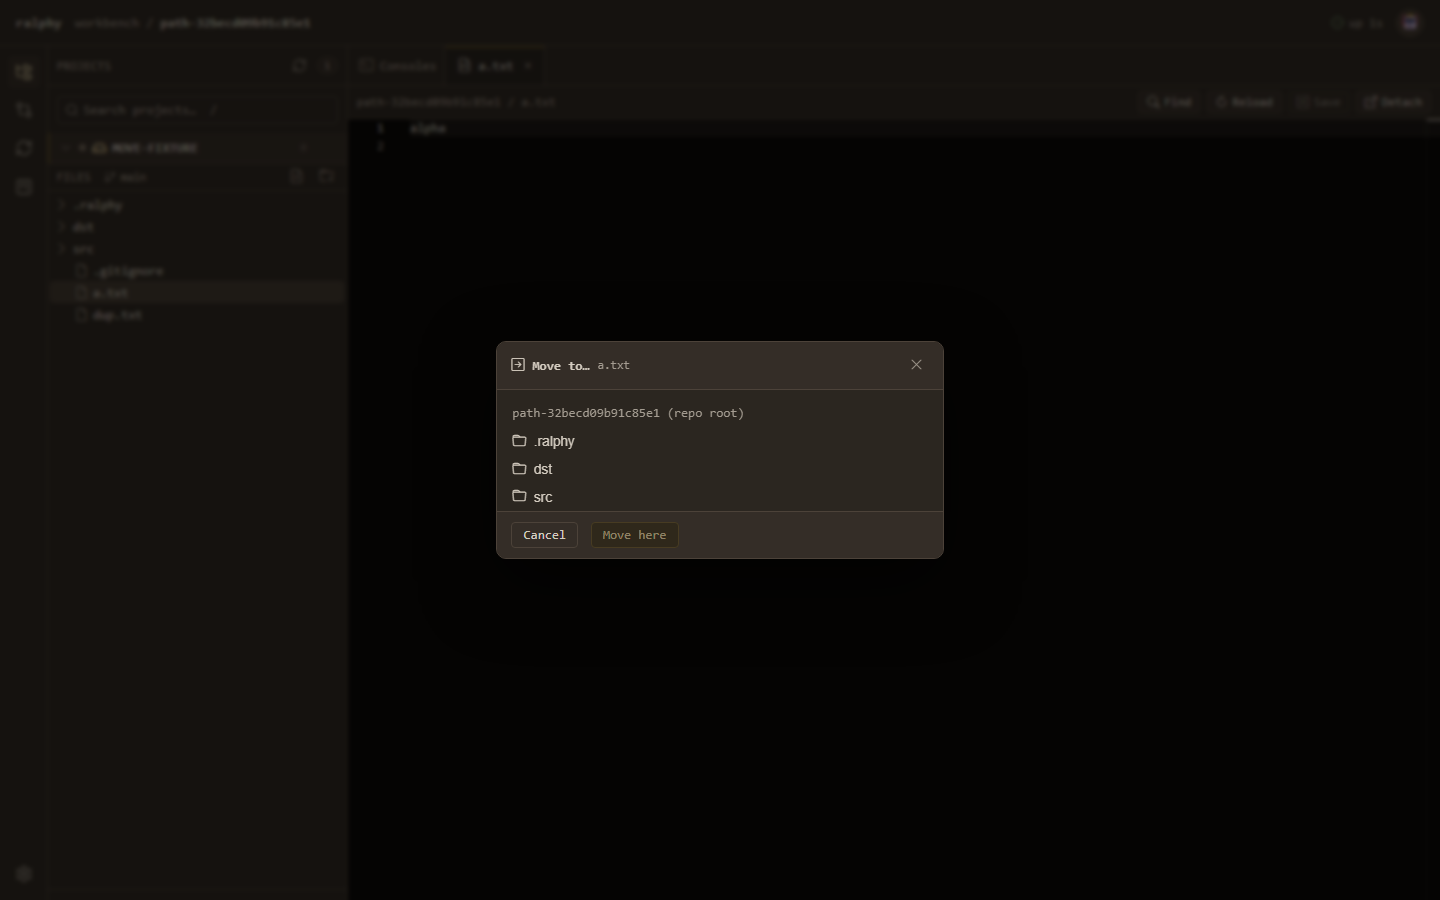
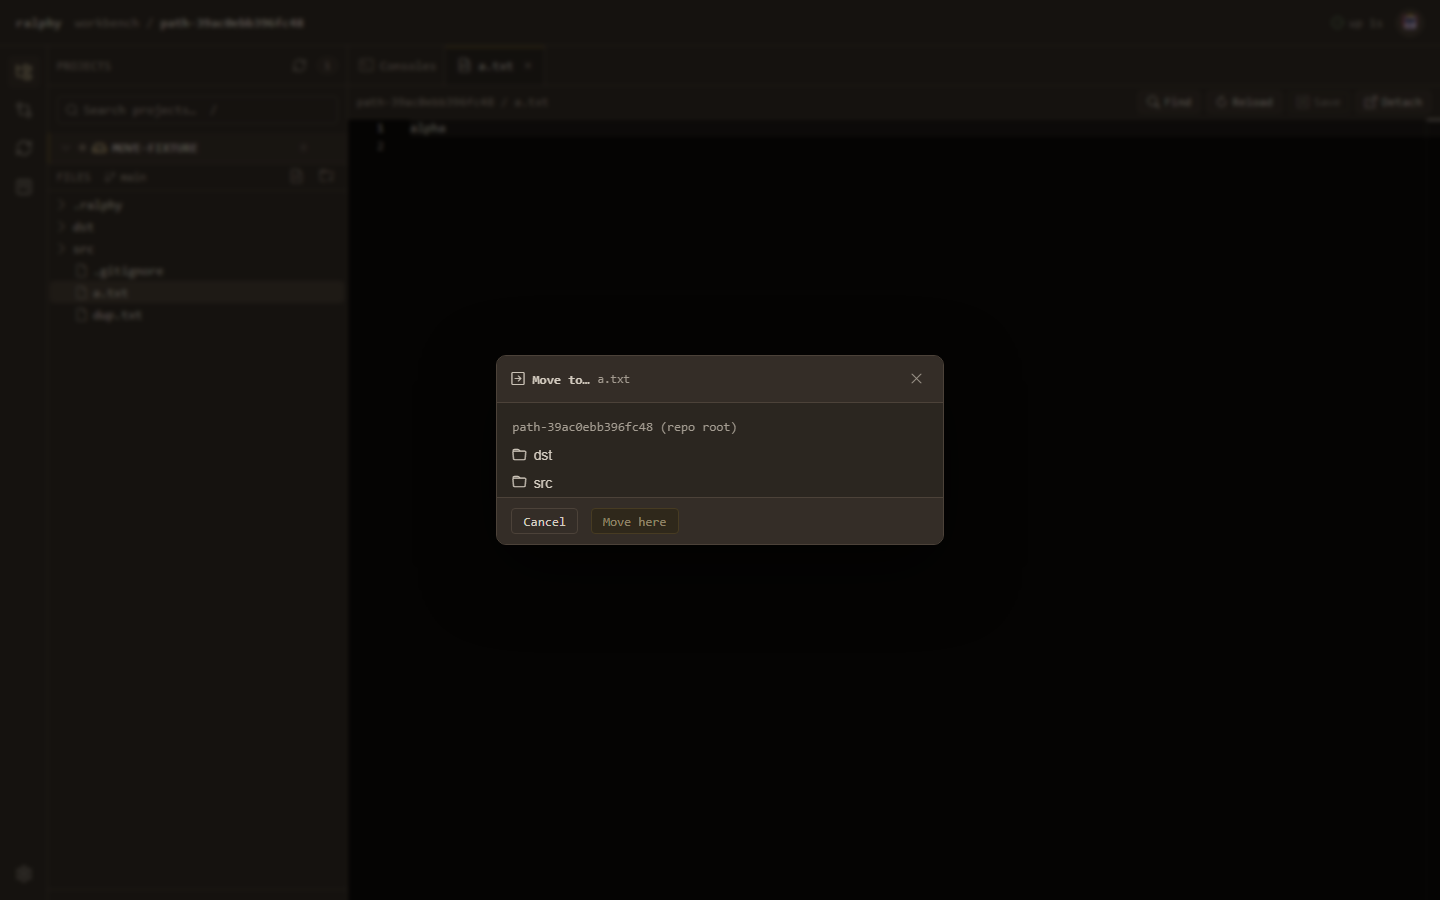
fix(workbench): close the move picker's dead-end affordances and tighten its suite (#364)
Self-review fixes: the picker no longer offers .git/.ralphy destinations (every
such move is refused by fswrite::PROTECTED_DIRS), nodes inside a protected dir
are offered no move row, a superseded listing can no longer land in the current
picker, and an id collision closes the stale tab instead of leaving it on the
emptied path. The suite gains the descendant-tab leg that makes repathTabs'
subtree branch fail when deleted, and pins the daemon's own refusal reason
rather than a pattern the browser's fallback string already satisfies.

Changed region(s): [[0.3438, 0.3733, 0.6562, 0.6222]]

diff --git a/crates/ralphy-daemon/assets/ui/app.js b/crates/ralphy-daemon/assets/ui/app.js
@@ -48,6 +48,22 @@ function extOf(name) {
   return n.includes(".") ? n.split(".").pop() : "";
 }
 
+// The two directories the daemon's Write path refuses outright
+// (`fswrite::PROTECTED_DIRS`), mirrored here so the UI never offers a gesture
+// that can only be refused. Case-insensitive: NTFS resolves `.GIT` to `.git`.
+const PROTECTED_DIRS = [".git", ".ralphy"];
+
+function isProtectedDir(name) {
+  return PROTECTED_DIRS.some((p) => name.toLowerCase() === p);
+}
+
+// Whether `rel` names or traverses a protected directory — the same component
+// test the daemon applies, so a node inside `.ralphy` is not offered a move it
+// cannot have.
+function underProtectedDir(rel) {
+  return rel.split("/").some(isProtectedDir);
+}
+
 // The directory containing `rel`, as a repo-relative path; "" for a top-level
 // entry (which is the repo root, the same value the tree verbs take for it).
 function parentRel(rel) {
@@ -3802,8 +3818,14 @@ function shell() {
         node && { label: "Copy relative path", icon: "bi-clipboard", run: () => this.copyPath(node, false) },
         node && !isFolder && { label: "Duplicate", icon: "bi-files", run: () => this.duplicateNode(node) },
         // For folders too: moving a whole directory is the gesture that made the
-        // explorer's tree editable rather than only its leaves.
-        node && { label: "Move to…", icon: "bi-arrow-right-square", run: () => this.moveNode(node) },
+        // explorer's tree editable rather than only its leaves. Dropped entirely
+        // for a node inside `.git`/`.ralphy`, whose every move the daemon
+        // refuses on the SOURCE — offering it would only promise a dead end.
+        node && !underProtectedDir(this.relPath(node)) && {
+          label: "Move to…",
+          icon: "bi-arrow-right-square",
+          run: () => this.moveNode(node),
+        },
         node && { sep: true },
         // Creating targets the node's own directory: the folder itself, or the
         // folder CONTAINING the clicked file. Right-clicking a file to make its
@@ -3935,22 +3957,27 @@ function shell() {
       this.movePick = {
         open: true,
         from: rel,
-        isFolder: this.isFolder(node),
         dir: "",
         entries: [],
         busy: false,
         error: "",
       };
+      this._movePickSeq = (this._movePickSeq || 0) + 1;
       this.movePickLoad(parentRel(rel));
     },
 
     async movePickLoad(dir) {
+      // A listing is a round trip, so a superseded or cancelled navigation can
+      // still land. Stamp the request and drop a reply that is no longer the
+      // one being awaited — otherwise two quick clicks settle out of order.
+      const seq = (this._movePickSeq = (this._movePickSeq || 0) + 1);
       this.movePick.busy = true;
       this.movePick.error = "";
       const listing = await WBDaemon.observe("tree.list", {
         repo: this.openSlug,
         path: dir,
       }).catch(() => null);
+      if (seq !== this._movePickSeq) return;
       this.movePick.busy = false;
       // A refused or dropped listing surfaces as a REASON, not as an empty
       // folder: "nothing in here" and "we could not look" are different answers
@@ -3969,7 +3996,12 @@ function shell() {
         .filter((e) => {
           const rel = dir ? `${dir}/${e.name}` : e.name;
           return rel !== from && !rel.startsWith(`${from}/`);
-        });
+        })
+        // …and never offer a destination the Write path refuses anyway
+        // (`fswrite::PROTECTED_DIRS`). `tree` deliberately still LISTS `.ralphy`
+        // so the plan and the run artifacts stay watchable, so without this the
+        // picker would advertise a destination every move dead-ends on.
+        .filter((e) => !isProtectedDir(e.name));
     },
 
     movePickInto(name) {
@@ -3986,9 +4018,16 @@ function shell() {
     },
 
     // "Move here" is dead while the browsed directory IS the source's current
-    // parent: the move would be a no-op the daemon reports as a flat `exists`.
+    // parent (the move would be a no-op the daemon reports as a flat `exists`),
+    // and while the listing FAILED — `dir` still names the last directory that
+    // loaded, so a live button there would move into somewhere the operator was
+    // just told could not be read.
     movePickBlocked() {
-      return this.movePick.busy || this.movePick.dir === parentRel(this.movePick.from);
+      return (
+        this.movePick.busy ||
+        !!this.movePick.error ||
+        this.movePick.dir === parentRel(this.movePick.from)
+      );
     },
 
     movePickConfirm() {
@@ -4036,12 +4075,20 @@ function shell() {
     // (`file:<project>:<rel>`), so a move that left the ids alone would leave
     // saves writing to the old location.
     repathTabs(from, to) {
-      for (const t of this.tabs) {
+      // Snapshot: the collision branch CLOSES a tab, which mutates `this.tabs`.
+      for (const t of [...this.tabs]) {
         if (t.kind === "diff" || t.project !== this.openSlug) continue;
         if (t.path !== from && !t.path?.startsWith(`${from}/`)) continue;
         const newPath = to + t.path.slice(from.length);
         const newId = `file:${t.project}:${newPath}`;
-        if (this.tabs.some((x) => x.id === newId)) continue;
+        if (this.tabs.some((x) => x.id === newId)) {
+          // The destination is ALREADY open in another tab. Leaving this one on
+          // the old path would leave a live editor whose next save recreates the
+          // file at the location the move just emptied — close it instead; the
+          // bytes are reachable through the tab that already holds them.
+          this.closeTab(t.id);
+          continue;
+        }
         window.WBViewer?.repath(t.id, { id: newId, path: newPath });
         if (this.active === t.id) this.active = newId;
         t.path = newPath;

diff --git a/crates/ralphy-daemon/assets/ui/styles.css b/crates/ralphy-daemon/assets/ui/styles.css
@@ -5172,6 +5172,12 @@ body.locked .runs {
 .move-row:hover {
   background: var(--surface-2, var(--surface));
 }
+/* The rows are the picker's only navigation, so keyboard reach needs a ring of
+   its own — the UA default is invisible against this surface. */
+.move-row:focus-visible {
+  outline: 2px solid var(--border-focus);
+  outline-offset: -2px;
+}
 .move-row.up {
   color: var(--text-muted);
 }

diff --git a/crates/ralphy-daemon/tests/wb_move_364.py b/crates/ralphy-daemon/tests/wb_move_364.py
@@ -13,12 +13,15 @@ Scenario b  moving `a.txt` into `dst/` lands it there, removes it from the root,
 Scenario c  moving the folder `src/` into `dst/` carries its contents
 Scenario d  a move onto an existing name is refused — source intact, the
             destination's bytes untouched
-Scenario e  a destination inside `.ralphy` is refused through the picker, and a
-            `../escaped.txt` destination is refused through the shell's own
-            `performMove` (the picker cannot express it, the daemon still must)
+Scenario e  the picker DROPS `.ralphy` although the tree still lists it, a node
+            inside it is offered no move at all, and both protected destinations
+            (`.ralphy/a.txt`, `../escaped.txt`) are still refused by the DAEMON
+            when driven straight at `performMove` — the UI guard is an
+            affordance, the confinement is the boundary
 Scenario f  an open tab for the moved file is RE-PATHED: its `path`/`id` follow,
-            and a save through that same tab writes to the new location with no
-            file recreated at the old one
+            a tab on a DESCENDANT of a moved folder follows too, and a save
+            through the moved tab writes to the new location with no file
+            recreated at the old one
 Plus        two source pins: the shared rename listener no longer composes a
             parent, and `performMove` reveals through `revealRel(` rather than a
             re-implemented expand/activate sequence.
@@ -474,6 +477,21 @@ def main():
             )
 
             # --- scenario c: move the FOLDER src/ into dst/ ---------------------
+            # A tab on a DESCENDANT of the folder about to move: this is the leg
+            # that exercises `repathTabs`'s `startsWith(from + "/")` branch —
+            # without it the branch can be deleted with every check still green.
+            # `src/` is lazy, so its child does not exist as a node until the
+            # reveal expands it — `findFirst` alone would return null.
+            page.evaluate(f"() => {SH}.revealRel('src/inner.txt')")
+            page.wait_for_function(
+                "() => { const c = " + SH + ";"
+                "  return !!c._tree.findFirst(x => c.relPath(x) === 'src/inner.txt'); }",
+                timeout=15000,
+            )
+            open_file(page, "src/inner.txt")
+            page.wait_for_function(
+                f"() => {SH}.tabs.some(t => t.path === 'src/inner.txt')", timeout=15000
+            )
             check("the menu opens over the folder `src`", open_menu_on(page, "src"))
             click_menu_row(page, "Move to…")
             wait_picker_open(page)
@@ -498,6 +516,15 @@ def main():
                 "…and leaves nothing behind at the root",
                 not Path(fixture, "src").exists(),
             )
+            inner_tab = next((t for t in page.evaluate(TABS) if t["path"].endswith("inner.txt")), None)
+            check(
+                "a tab open on a DESCENDANT of the moved folder is re-pathed too",
+                inner_tab is not None
+                and inner_tab["path"] == "dst/src/inner.txt"
+                and inner_tab["id"] == f"file:{slug}:dst/src/inner.txt",
+                "tab={}".format(inner_tab),
+            )
+            page.evaluate(f"(id) => {SH}.closeTab(id)", arg=f"file:{slug}:dst/src/inner.txt")
 
             # --- scenario d: a move onto an existing name is refused ------------
             check("the menu opens over `dup.txt`", open_menu_on(page, "dup.txt"))
@@ -506,13 +533,14 @@ def main():
             pick_into(page, "dst")
             click_move_here(page)
             # The refusal is a FLASH, not a tree write, so wait for the message.
-            page.wait_for_function(
-                f"() => !!{SH}.__flash && /refused|exists/i.test({SH}.__flash)",
-                timeout=15000,
-            )
+            # EXACT equality against the daemon's own reason (`lib.rs:1736`), not
+            # a regex: the browser's fallback string is "move refused", which
+            # contains "refused" and would satisfy a loose pattern even if the
+            # daemon had named nothing at all.
+            page.wait_for_function(f"() => {SH}.__flash === 'exists'", timeout=15000)
             check(
-                "a move onto an existing name is refused with a reason",
-                bool(re.search(r"refused|exists", page.evaluate(f"() => {SH}.__flash") or "", re.I)),
+                "a move onto an existing name is refused with the daemon's own reason",
+                page.evaluate(f"() => {SH}.__flash") == "exists",
                 "flash={!r}".format(page.evaluate(f"() => {SH}.__flash")),
             )
             check(
@@ -527,9 +555,10 @@ def main():
             )
 
             # --- scenario e: protected dir, and an escape ----------------------
-            # `.ralphy` is reachable through the picker (unlike `.git`, which
-            # `tree::HARD_EXCLUDE` drops from every listing) — so it is the one
-            # protected destination an operator can actually aim at.
+            # `.ralphy` survives `tree::HARD_EXCLUDE` (unlike `.git`) so the TREE
+            # lists it — which is exactly why the picker has to drop it itself:
+            # `fswrite::PROTECTED_DIRS` refuses every move into it, so offering
+            # the row would advertise a destination that can only dead-end.
             check("the menu opens over `dst/a.txt` for the protected-dir move", open_menu_on(page, "dst/a.txt"))
             click_menu_row(page, "Move to…")
             wait_picker_open(page)
@@ -537,35 +566,55 @@ def main():
             page.wait_for_function(f"() => {SH}.movePick.dir === '' && !{SH}.movePick.busy", timeout=10000)
             ralphy_listed = page.evaluate(PICK_STATE)
             check(
-                "`.ralphy` is offered by the picker (the refusal must come from the daemon)",
-                ".ralphy" in ralphy_listed["rows"],
-                "rows={}".format(ralphy_listed["rows"]),
+                "the picker drops `.ralphy` although the tree still lists it",
+                ".ralphy" not in ralphy_listed["rows"]
+                and ".ralphy" in page.evaluate(REL_PATHS),
+                "pickerRows={} treeRels={}".format(ralphy_listed["rows"], page.evaluate(REL_PATHS)),
             )
-            pick_into(page, ".ralphy")
-            page.evaluate(f"() => {SH}.__flash = ''")
-            click_move_here(page)
+            page.evaluate(f"() => {SH}.movePickCancel()")
+            page.wait_for_function(f"() => {SH}.movePick.open === false", timeout=10000)
+            check(
+                "Cancel closes the picker and moves nothing",
+                page.evaluate(f"() => {SH}.movePick.open") is False
+                and Path(fixture, "dst", "a.txt").exists(),
+            )
+            # …and a node INSIDE a protected dir is offered no move at all: every
+            # such move is refused on the SOURCE, so the row would be a dead end.
+            page.evaluate(f"() => {SH}.revealRel('.ralphy/keep.txt')")
             page.wait_for_function(
-                f"() => !!{SH}.__flash && /refused|escapes|confined/i.test({SH}.__flash)",
+                "() => { const c = " + SH + ";"
+                "  return !!c._tree.findFirst(x => c.relPath(x) === '.ralphy/keep.txt'); }",
                 timeout=15000,
             )
+            check("the menu opens over `.ralphy/keep.txt`", open_menu_on(page, ".ralphy/keep.txt"))
+            protected_menu = page.evaluate(MENU_LABELS)
             check(
-                "a move INTO `.ralphy` is refused",
+                "a node inside `.ralphy` is offered no `Move to…` row",
+                "Move to…" not in protected_menu["labels"],
+                "labels={}".format(protected_menu["labels"]),
+            )
+            page.evaluate(f"() => {SH}.hideMenu()")
+            # The guard is the UI's; the DAEMON's refusal is still the boundary,
+            # so both protected destinations are driven straight at `performMove`
+            # — the picker can express neither, and neither may land.
+            page.evaluate(f"() => {SH}.__flash = ''")
+            page.evaluate(f"() => {SH}.performMove('dst/a.txt', '.ralphy/a.txt')")
+            page.wait_for_function(f"() => {SH}.__flash === 'refused'", timeout=15000)
+            check(
+                "a move INTO `.ralphy` is refused by the daemon, with its own reason",
                 not Path(fixture, ".ralphy", "a.txt").exists()
-                and Path(fixture, "dst", "a.txt").exists(),
+                and Path(fixture, "dst", "a.txt").exists()
+                and page.evaluate(f"() => {SH}.__flash") == "refused",
                 "flash={!r}".format(page.evaluate(f"() => {SH}.__flash")),
             )
-            # The escape leg goes through the shell's own move-perform function:
-            # the picker cannot express `..`, but the daemon still has to refuse it.
             page.evaluate(f"() => {SH}.__flash = ''")
             page.evaluate(f"() => {SH}.performMove('dst/a.txt', '../escaped.txt')")
-            page.wait_for_function(
-                f"() => !!{SH}.__flash && /refused|escapes|confined/i.test({SH}.__flash)",
-                timeout=15000,
-            )
+            page.wait_for_function(f"() => {SH}.__flash === 'refused'", timeout=15000)
             check(
                 "a destination outside the repo root is refused, and nothing lands beside it",
                 not Path(fixture).parent.joinpath("escaped.txt").exists()
-                and Path(fixture, "dst", "a.txt").exists(),
+                and Path(fixture, "dst", "a.txt").exists()
+                and page.evaluate(f"() => {SH}.__flash") == "refused",
                 "flash={!r}".format(page.evaluate(f"() => {SH}.__flash")),
             )
             check(
@@ -577,6 +626,16 @@ def main():
             # REL PATHS, not row titles: the reveal expanded `dst/`, so a flat
             # title list still contains `a.txt` and `src` — as the CHILDREN of
             # the destination. Only the rel path can tell the two apart.
+            # Re-reveal first: the later `.ralphy` navigation left `dst/`
+            # collapsed, and a collapsed folder's children are simply not rows.
+            page.evaluate(f"() => {SH}.revealRel('dst/a.txt')")
+            # Wait for the painted ROW, not merely for the node to exist: the
+            # tree model gains the child a frame or more before Wunderbaum lays
+            # it out, and `REL_PATHS` reads only laid-out rows.
+            page.wait_for_function(
+                "() => (" + REL_PATHS + ")().includes('dst/a.txt')",
+                timeout=15000,
+            )
             rels = page.evaluate(REL_PATHS)
             check(
                 "the tree ends with the moved entries under `dst/`, gone from the root",
@@ -592,7 +651,7 @@ def main():
 
     print(f"\n{sum(results)}/{len(results)} checks passed", flush=True)
     # A deleted scenario must not silently shrink the suite (#339 trap).
-    check_floor = 35
+    check_floor = 39
     if len(results) != check_floor:
         print(f"[FAIL] the suite ran {len(results)} checks, expected {check_floor}", flush=True)
         sys.exit(1)

diff --git a/crates/ralphy-daemon/src/fswrite.rs b/crates/ralphy-daemon/src/fswrite.rs
@@ -382,8 +382,10 @@ mod tests {
     /// `rename` is the byte-op behind the explorer's MOVE, so its destination is
     /// now operator-chosen rather than a sibling name — the denylist and
     /// confinement are what stand between a picked directory and `.git`/`.ralphy`
-    /// or the world outside the root. Negative control: deleting either
-    /// `refuse_protected(...)` line in `rename` makes the first two asserts fail.
+    /// or the world outside the root. Negative control, one line per assert:
+    /// deleting `refuse_protected(to_rel)` (fswrite.rs:115) fails assert 1 and
+    /// deleting `refuse_protected(from_rel)` (:114) fails assert 2 — each line
+    /// is killed by exactly one of them, since the other still catches the pair.
     #[test]
     fn rename_refuses_protected_dirs_and_escape() {
         let root = tempfile::tempdir().unwrap();
